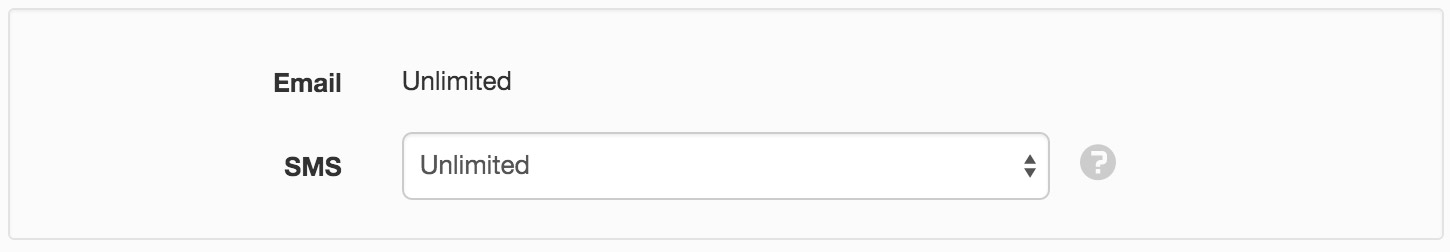
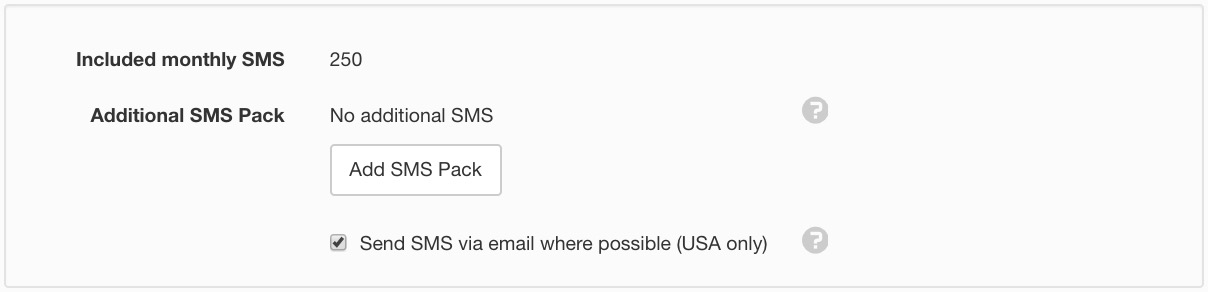
add sms via email transport feature

diff --git a/source/topics/account_settings/notifications/index.rst b/source/topics/account_settings/notifications/index.rst
@@ -3,7 +3,7 @@
 Notifications
 ==============
 
-|icon-notification| Notifications section is used to configure the Notification Limits and Categories for the account.
+|icon-notification| Notifications section is used to configure notification preferences for the account.
 
 .. only:: not latex
 
@@ -16,7 +16,14 @@ Notification Limits
 
 Email notifications are free and unlimited.
 
-SMS notifications incur charges on the account. You can restrict the total number of SMS allowed to be sent from the account per billing period. You can also choose to *Disable*  SMS or set to *Unlimited*  for no restriction.
+Most account plans are bundled with a specific number of included monthly SMS. 
+Additional SMS Packs can be purchased in quantities of 100 / month. 
+
+Managed accounts can have SMS limits specified or you can choose to *Disable* SMS for these accounts.
+
+The *Send SMS via email* option will send SMS notifications for free to phone numbers in the USA using the recipients' service provider email to SMS transport where possible. 
+This option is only visible on primary accounts and is automatically applied to all managed accounts. 
+The phone number field in :ref:`user preferences <user-preferences>` indicates if an SMS email address is in-use for your user profile (after sending an initial SMS) and allows you to reset/retry if you change service providers.
 
 .. raw:: latex
 
@@ -36,7 +43,7 @@ SMS notifications incur charges on the account. You can restrict the total numbe
 	.. image:: account_notification_limits.jpg
 
 
-The account owner will receive an email from the system when the total number of SMS sent within the current billing period gets close to the selected limit. Another email will be sent when the limit is reached and no further notification SMS will be sent until the next billing period.
+The account owner will receive an email from the system when the total number of SMS sent within the current billing period gets close to the account limit. Another email will be sent when the limit is reached and no further notification SMS will be sent until the next billing period.
 
 .. only:: not latex
 

diff --git a/source/topics/user_preferences/index.rst b/source/topics/user_preferences/index.rst
@@ -1,5 +1,5 @@
 .. meta::
-   :description: Set your eagle.io account preferences, see what groups and fellow users you are associated with, change login and passwords, timezone, formats and notifications preferences. 
+   :description: Set your eagle.io userpreferences, see what groups and fellow users you are associated with, change login and passwords, timezone, formats and notifications preferences. 
 
 .. _user-preferences:
 
@@ -32,6 +32,18 @@ User Preferences
 Change login email
 ------------------
 Use the *Change* button to update your user profile email address. An email will be sent to the new address with a one-time verification link to confirm the change. Any re-sends or new address changes will invalidate previously generated links.
+
+.. only:: not latex
+
+    |
+
+
+Phone number
+-------------
+A valid phone number is required to receive SMS notifications. Please enter a fully qualified international phone number starting with '+'. 
+
+The account administrator(s) can optionally select to *Send SMS via email* from the :ref:`notifications <management-notifications>` section in account settings.
+When enabled, the phone number field indicates if an SMS email address is in-use for your user profile (after sending an initial SMS) and allows you to reset/retry if you change service providers.
 
 .. only:: not latex
 
